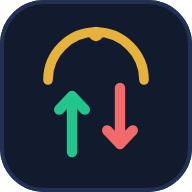
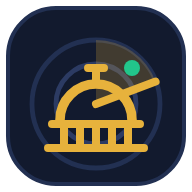
Rebrand to Hillradar
- default brand, company, contact and alert-sender now Hillradar /
  hello@hillradar.com; one-time migration moves installs that still carry the
  old default strings (custom values untouched)
- new mark: Capitol dome under a radar sweep; icons, favicon and apple touch
  icon regenerated; manifest, titles, service-worker cache names, install
  guides, footer, sign-in page and legal header updated
- admin login, Fly app name and database path unchanged

Claude-Session: https://claude.ai/code/session_01RKdZ6o8ZCXcVnE1EdADfmR

diff --git a/web/src/components/InstallApp.tsx b/web/src/components/InstallApp.tsx
@@ -47,15 +47,15 @@ function Guide({ kind, canPrompt, onPrompt, onClose }: { kind: "android" | "ios"
     ["Open this site in Safari", `${url} — Chrome on iPhone cannot install apps.`, <Apple size={18} />],
     ["Tap the Share button", "The square with an arrow at the bottom of Safari.", <Share size={18} />],
     ["Tap “Add to Home Screen”", "Scroll the list a little if you don't see it, then tap Add.", <PlusSquare size={18} />],
-    ["Done", "PoliTrade AI appears on your home screen and opens full-screen.", <Download size={18} />],
+    ["Done", "Hillradar appears on your home screen and opens full-screen.", <Download size={18} />],
   ] : kind === "android" ? [
     ["Open this site in Chrome", url, <Smartphone size={18} />],
-    ["Tap the ⋮ menu (top right)", "Or wait for the “Add PoliTrade AI to Home screen” bar at the bottom.", <MoreVertical size={18} />],
+    ["Tap the ⋮ menu (top right)", "Or wait for the “Add Hillradar to Home screen” bar at the bottom.", <MoreVertical size={18} />],
     ["Tap “Install app” / “Add to Home screen”", "Then tap Install.", <Download size={18} />],
     ["Done", "The app icon is on your home screen and in the app drawer.", <PlusSquare size={18} />],
   ] : [
     ["Open this site in Chrome or Edge", url, <Monitor size={18} />],
-    ["Click the install icon in the address bar", "A small monitor-with-arrow icon at the right end of the address bar — or menu ⋮ → “Install PoliTrade AI”.", <Download size={18} />],
+    ["Click the install icon in the address bar", "A small monitor-with-arrow icon at the right end of the address bar — or menu ⋮ → “Install Hillradar”.", <Download size={18} />],
     ["Click Install", "It opens in its own window and gets a Start-menu / Dock icon.", <PlusSquare size={18} />],
   ];
   return (
@@ -97,7 +97,7 @@ export function InstallNudge() {
   return (
     <div className="fixed inset-x-3 bottom-3 z-40 flex items-center gap-3 rounded-2xl border border-gold/40 bg-ink-700/95 p-3 shadow-xl backdrop-blur md:hidden">
       <img src="/icon-192.png" alt="" className="h-10 w-10 rounded-xl" />
-      <div className="min-w-0 flex-1 text-sm"><b>Install PoliTrade AI</b><div className="text-xs text-slate-400">Opens like an app · works offline</div></div>
+      <div className="min-w-0 flex-1 text-sm"><b>Install Hillradar</b><div className="text-xs text-slate-400">Opens like an app · works offline</div></div>
       {canPrompt ? <button className="btn-gold px-3 py-1.5 text-xs" onClick={async () => { if (await prompt()) dismiss(); }}>Install</button>
         : <a href="#install" className="btn-gold px-3 py-1.5 text-xs" onClick={dismiss}>How</a>}
       <button className="btn-ghost px-2 py-1.5" onClick={dismiss}><X size={14} /></button>

diff --git a/server/src/legal.ts b/server/src/legal.ts
@@ -33,7 +33,9 @@ const I: Record<string, string> = {
 };
 const ic = (k: string, size = 20) => `<svg width="${size}" height="${size}" viewBox="0 0 24 24" fill="none" stroke="currentColor" stroke-width="1.8" stroke-linecap="round" stroke-linejoin="round" aria-hidden="true">${I[k] ?? I.info}</svg>`;
 
-const UPDATED = "October 12, 2026";
+const UPDATED = "October 13, 2026";
+/** "Hillradar" -> Hill<b>radar</b>, "PoliTrade AI" -> PoliTrade <b>AI</b>, anything else as-is. */
+export const brandHtml = (n: string) => `<span>${/\sAI$/.test(n) ? `${n.replace(/ AI$/, "")} <b>AI</b>` : n.length > 6 ? `${n.slice(0, 4)}<b>${n.slice(4)}</b>` : n}</span>`;
 
 type Section = { id: string; icon: string; title: string; html: string };
 
@@ -71,7 +73,7 @@ footer{border-top:1px solid var(--line);padding:22px 0;color:var(--mute);font-si
 @media(max-width:860px){.grid{grid-template-columns:1fr;gap:18px}aside{position:static}aside ol{display:flex;flex-wrap:wrap;gap:6px;border-left:0}aside li a{border:1px solid var(--line);border-radius:999px;padding:5px 11px;font-size:.82rem;gap:6px}aside li a small{display:none}.nav a{padding:6px 8px;font-size:.82rem}.hero h1{font-size:1.5rem}}
 @media(max-width:600px){.bar{flex-wrap:wrap;height:auto;min-height:56px;padding:8px 0}.nav{margin-left:0;width:100%;overflow-x:auto;-webkit-overflow-scrolling:touch}.nav a{white-space:nowrap}.hero{padding:28px 0 20px}section{padding:16px 14px}table{display:block;overflow-x:auto}}
 ${opts.css ?? ""}</style>${opts.headExtra ?? ""}</head><body>
-<header><div class="wrap bar"><a class="brand" href="/"><img src="/icon-192.png" width="30" height="30" alt="" style="border-radius:8px">${name.replace(/ AI$/, "")} <b>AI</b></a><nav class="nav">${nav}</nav></div></header>
+<header><div class="wrap bar"><a class="brand" href="/"><img src="/icon-192.png" width="30" height="30" alt="" style="border-radius:8px">${brandHtml(name)}</a><nav class="nav">${nav}</nav></div></header>
 <div class="wrap"><div class="hero"><h1>${title}</h1><p>${lead}</p><div class="meta"><span class="chip">${ic("clock", 14)} Last updated ${UPDATED}</span><span class="chip">${ic("file", 14)} ${sections.length} ${opts.sectionsLabel ?? "sections"}</span><span class="chip">${ic("globe", 14)} Applies worldwide</span></div>${opts.heroExtra ?? ""}</div>
 <div class="grid"><aside><h3>On this page</h3><ol>${toc}</ol></aside><main>${body}</main></div></div>
 <footer><div class="wrap"><span>© ${new Date().getFullYear()} ${integ.companyName()} · ${name}. Data from public US congressional disclosures (STOCK Act).</span><span><a href="/">← Back to the app</a></span></div></footer>

diff --git a/web/src/components/Logo.tsx b/web/src/components/Logo.tsx
@@ -1,12 +1,20 @@
-/** Original PoliTrade AI mark: a capitol-style arch over up/down trade arrows, in gold on navy. */
+/** Hillradar mark: a Capitol dome under a radar sweep, gold on navy. */
 export default function Logo({ className = "" }: { className?: string }) {
   return (
     <svg viewBox="0 0 48 48" className={className} aria-hidden="true">
       <rect x="2" y="2" width="44" height="44" rx="12" fill="#121a2e" stroke="#223052" />
-      <path d="M12 20a12 12 0 0 1 24 0" fill="none" stroke="#e7b23c" strokeWidth="2.4" strokeLinecap="round" />
-      <circle cx="24" cy="8.5" r="1.8" fill="#e7b23c" />
-      <path d="M18 38V24M18 24l-3.2 3.4M18 24l3.2 3.4" fill="none" stroke="#22c58b" strokeWidth="2.6" strokeLinecap="round" strokeLinejoin="round" />
-      <path d="M30 22v14M30 36l-3.2-3.4M30 36l3.2-3.4" fill="none" stroke="#f26a6a" strokeWidth="2.6" strokeLinecap="round" strokeLinejoin="round" />
+      {/* radar rings */}
+      <circle cx="24" cy="26" r="16" fill="none" stroke="#223052" strokeWidth="1.2" />
+      <circle cx="24" cy="26" r="10" fill="none" stroke="#2c3b63" strokeWidth="1.2" />
+      {/* sweep */}
+      <path d="M24 26L24 10A16 16 0 0 1 38.9 20.4z" fill="#e7b23c" opacity=".22" />
+      <path d="M24 26L38.9 20.4" stroke="#e7b23c" strokeWidth="2" strokeLinecap="round" />
+      {/* dome */}
+      <path d="M15 30a9 9 0 0 1 18 0" fill="none" stroke="#e7b23c" strokeWidth="2.4" strokeLinecap="round" />
+      <path d="M24 21v-4M22 17h4" stroke="#e7b23c" strokeWidth="2" strokeLinecap="round" />
+      <path d="M13 31h22M16 31v6M20 31v6M24 31v6M28 31v6M32 31v6M12 37h24" stroke="#e7b23c" strokeWidth="2" strokeLinecap="round" />
+      {/* blip */}
+      <circle cx="33" cy="17" r="2" fill="#22c58b" />
     </svg>
   );
 }

diff --git a/server/src/index.ts b/server/src/index.ts
@@ -26,6 +26,7 @@ app.use(express.json({ limit: "5mb" }));
 migrate();
 seedAdmin();
 seedPlans();
+rebrandOnce();
 
 app.get("/api/photo/:bioguide", photo);
 app.get("/api/health", (_req, res) => res.json({ ok: true, version: APP_VERSION, ai: aiOn(), ...stats() }));
@@ -95,6 +96,17 @@ if (fs.existsSync(webDist)) {
   // hashed assets are immutable; index.html must always be fresh so new deploys show up
   app.use(express.static(webDist, { maxAge: "365d", immutable: true, index: false, setHeaders: (res, p) => { if (p.endsWith(".html") || p.endsWith(".webmanifest") || p.endsWith("sw.js")) res.setHeader("cache-control", "no-cache"); } }));
   app.get(/^\/(?!api).*/, (_req, res) => res.sendFile(path.join(webDist, "index.html"), { headers: { "cache-control": "no-cache" } }));
+}
+
+/** One-time: installs that still carry the old default brand strings move to Hillradar. Custom values are left alone. */
+function rebrandOnce() {
+  if (getSetting("brand.v2")) return;
+  const swap: Record<string, [string, string]> = {
+    "brand.name": ["PoliTrade AI", config.brandName], "brand.company": ["PoliTrade AI", config.brandName],
+    "brand.contact": ["hello@politrade.ai", config.contactEmail], "email.from": ["alerts@politrade.ai", config.email.from],
+  };
+  for (const [k, [oldV, newV]] of Object.entries(swap)) { const cur = getSetting(k); if (cur === oldV) setSetting(k, newV); }
+  setSetting("brand.v2", "1");
 }
 
 /** Default subscription plans: Free and Pro ($300 / year). Existing installs seeded with the old trio are migrated once. */

diff --git a/web/src/components/Footer.tsx b/web/src/components/Footer.tsx
@@ -15,7 +15,7 @@ export default function Footer() {
     <footer className="mt-10 border-t border-line bg-ink-800">
       <div className="mx-auto grid max-w-6xl gap-6 px-4 py-9 sm:grid-cols-2 md:grid-cols-5">
         <div className="sm:col-span-2 md:col-span-1">
-          <div className="flex items-center gap-2"><Logo className="h-7 w-7" /><span className="font-display font-700">PoliTrade <span className="text-gold">AI</span></span></div>
+          <div className="flex items-center gap-2"><Logo className="h-7 w-7" /><span className="font-display font-700">Hill<span className="text-gold">radar</span></span></div>
           <p className="mt-3 max-w-xs text-sm text-slate-400">AI-powered tracker for publicly disclosed US congressional stock trades. For research only — not financial advice.</p>
         </div>
         <div>
@@ -53,7 +53,7 @@ export default function Footer() {
       </div>
       <div className="border-t border-line">
         <div className="mx-auto flex max-w-6xl flex-col gap-2 px-4 py-4 text-xs text-slate-500 sm:flex-row sm:items-center sm:justify-between">
-          <span>© {year} PoliTrade AI. Data from public US congressional disclosures (STOCK Act).</span>
+          <span>© {year} Hillradar. Data from public US congressional disclosures (STOCK Act).</span>
           <span>Not affiliated with any government body or lawmaker. v{b?.version ?? "1.0.0"}</span>
         </div>
       </div>

diff --git a/web/src/components/Layout.tsx b/web/src/components/Layout.tsx
@@ -32,7 +32,7 @@ export default function Layout() {
       <OfflineBar />
       <header className="sticky top-0 z-30 border-b border-line bg-ink-900/85 backdrop-blur">
         <div className="mx-auto flex max-w-6xl items-center gap-4 px-4 py-3">
-          <Link to="/" className="flex items-center gap-2.5"><Logo className="h-8 w-8" /><span className="whitespace-nowrap font-display text-lg font-700 tracking-tight">Poli<span className="text-gold">Trade</span> <span className="text-slate-400">AI</span></span></Link>
+          <Link to="/" className="flex items-center gap-2.5"><Logo className="h-8 w-8" /><span className="whitespace-nowrap font-display text-lg font-700 tracking-tight">Hill<span className="text-gold">radar</span></span></Link>
           <nav className="ml-1 hidden items-center gap-0 md:flex xl:ml-3 xl:gap-0.5">
             {BASE_NAV.map((n) => (
               <NavLink key={n.to} to={n.to} end={n.end} title={n.label} onMouseEnter={() => PREFETCH[n.to]?.forEach(prefetch)} className={({ isActive }) =>

diff --git a/web/index.html b/web/index.html
@@ -3,13 +3,13 @@
   <head>
     <meta charset="UTF-8" />
     <meta name="viewport" content="width=device-width, initial-scale=1.0" />
-    <title>PoliTrade AI — Congressional trade tracker</title>
+    <title>Hillradar — Congressional trade tracker</title>
     <meta name="description" content="Track publicly disclosed US congressional stock trades with AI-powered alerts." />
     <meta name="theme-color" content="#0a0f1c" />
     <meta name="mobile-web-app-capable" content="yes" />
     <meta name="apple-mobile-web-app-capable" content="yes" />
     <meta name="apple-mobile-web-app-status-bar-style" content="black-translucent" />
-    <meta name="apple-mobile-web-app-title" content="PoliTrade AI" />
+    <meta name="apple-mobile-web-app-title" content="Hillradar" />
     <link rel="manifest" href="/manifest.webmanifest" />
     <link rel="icon" href="/favicon.png" type="image/png" />
     <link rel="icon" href="/icon.svg" type="image/svg+xml" />

diff --git a/web/src/pages/Trades.tsx b/web/src/pages/Trades.tsx
@@ -59,7 +59,7 @@ export default function Trades() {
       {!user?.pro && (
         <div className="card flex flex-wrap items-center gap-3 border-gold/40 bg-gold/5 p-4 text-sm">
           <div className="flex-1 basis-[260px]"><b className="text-gold">Free plan:</b> <span className="text-slate-300">you are seeing the last 30 days of filings. <b>Pro ($300 / year)</b> unlocks the full history since 2014, instant Telegram / WhatsApp / Email alerts, unlimited watchlist and CSV export.</span></div>
-          <a href={`mailto:${branding?.contact ?? "hello@politrade.ai"}?subject=Upgrade to Pro`} className="btn-gold px-3 py-2 text-xs">Upgrade to Pro</a>
+          <a href={`mailto:${branding?.contact ?? "hello@hillradar.com"}?subject=Upgrade to Pro`} className="btn-gold px-3 py-2 text-xs">Upgrade to Pro</a>
         </div>
       )}
       <div className="card space-y-2 p-3">

diff --git a/server/src/config.ts b/server/src/config.ts
@@ -50,12 +50,12 @@ export const config = {
   email: {
     webhookUrl: process.env.EMAIL_WEBHOOK_URL ?? "",     // generic HTTP email provider (e.g. Resend/Mailgun REST)
     apiKey: process.env.EMAIL_API_KEY ?? "",
-    from: process.env.EMAIL_FROM ?? "alerts@politrade.ai",
+    from: process.env.EMAIL_FROM ?? "alerts@hillradar.com",
     to: process.env.EMAIL_TO ?? "",
   },
   scheduler: process.env.SCHEDULER !== "off",
-  brandName: process.env.BRAND_NAME ?? "PoliTrade AI",
-  contactEmail: process.env.CONTACT_EMAIL ?? "hello@politrade.ai",
+  brandName: process.env.BRAND_NAME ?? "Hillradar",
+  contactEmail: process.env.CONTACT_EMAIL ?? "hello@hillradar.com",
   social: {
     x: process.env.SOCIAL_X ?? "",
     telegram: process.env.SOCIAL_TELEGRAM ?? "",

diff --git a/web/public/sw.js b/web/public/sw.js
@@ -1,8 +1,8 @@
-// PoliTrade AI service worker — the app shell and hashed assets are cached so the app opens without internet,
+// Hillradar service worker — the app shell and hashed assets are cached so the app opens without internet,
 // and GET API responses are kept (stale-while-revalidate) so the last-loaded trades, politicians and dashboard
 // stay readable offline. Writes (login, settings, watchlist) always need the network.
-const SHELL = "politrade-shell-v1";
-const DATA = "politrade-data-v1";
+const SHELL = "hillradar-shell-v2";
+const DATA = "hillradar-data-v2";
 const DATA_MAX = 300;
 const NEVER_CACHE = /^\/api\/(auth|admin|me\/telegram|me\/test|trades\.csv)/;
 const SERVER_PAGES = /^\/(privacy|terms|disclaimer|contact)(\/|$)/;

diff --git a/web/src/pages/Login.tsx b/web/src/pages/Login.tsx
@@ -67,7 +67,7 @@ export function Shell({ children, title }: { children: React.ReactNode; title?: 
       <div className="w-full max-w-sm">
         <div className="mb-6 text-center">
           <Logo className="mx-auto h-14 w-14" />
-          <h1 className="mt-3 font-display text-2xl font-700">Poli<span className="text-gold">Trade</span> AI</h1>
+          <h1 className="mt-3 font-display text-2xl font-700">Hill<span className="text-gold">radar</span></h1>
           <p className="mt-1 text-sm text-slate-400">{title ?? "Congressional stock trades, with AI signals & alerts."}</p>
         </div>
         {children}

diff --git a/server/src/ingest.ts b/server/src/ingest.ts
@@ -149,7 +149,7 @@ export async function ingestFromFeed(opts: { alerts?: boolean } = {}): Promise<{
   return { fetched, added, source: `${urls.length} source${urls.length > 1 ? "s" : ""}`, errors };
 }
 
-const UA = { accept: "application/json, */*", "user-agent": "PoliTradeAI/1.0 (+public STOCK Act data)" };
+const UA = { accept: "application/json, */*", "user-agent": "Hillradar/1.0 (+public STOCK Act data)" };
 
 async function fetchJson(url: string): Promise<any> {
   const res = await fetch(url, { headers: UA });
